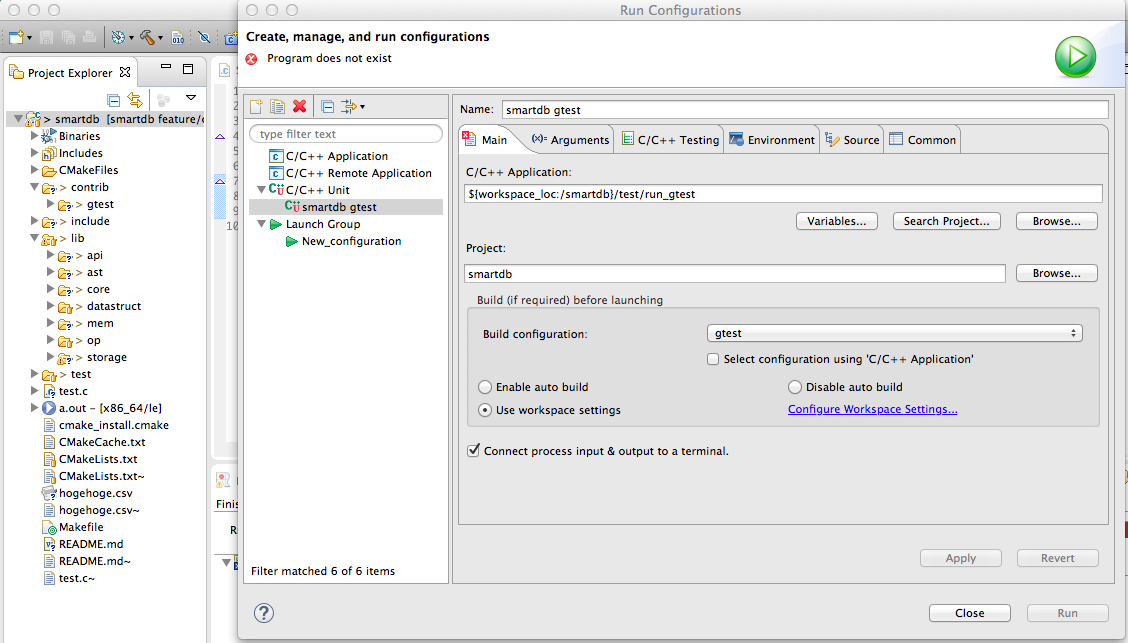
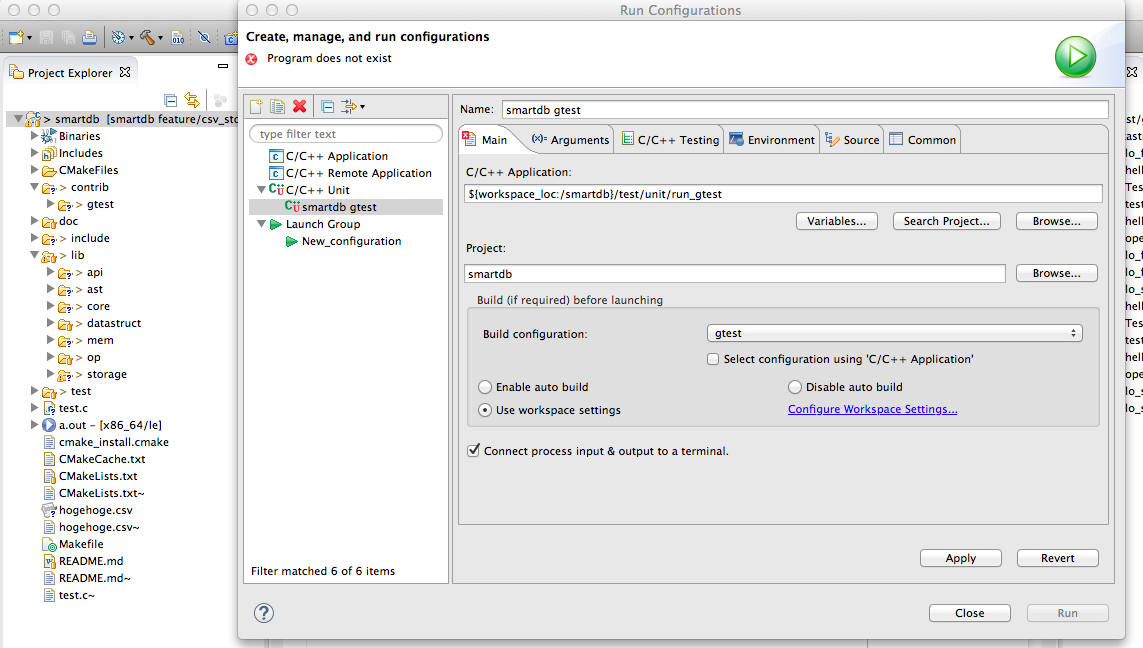
moves unit test builder

Changed region(s): [[0.0, 0.0, 1.0, 1.0], [0.5275, 0.0, 0.6516, 0.0311]]

diff --git a/README.md b/README.md
@@ -16,7 +16,7 @@ CMakeLists.txt LICENSE        Makefile.in    aclocal.m4     cmake          confi
 ### Running via shell
 
 ```bash
-$ cd test
+$ cd test/unit
 $ ./build.sh
 $ ./run_gtest
 ```
@@ -30,20 +30,20 @@ $ ./run_gtest
     4. Install it.
 
     ![Get "C/C++ Unit Test" plugin](doc/img/eclipse/installing_unit_test_support.png)
-2. Make build configuration to create `test/run_gtest` binary.
+2. Make build configuration to create `test/unit/run_gtest` binary.
     1. Project -> Properties -> C/C++ Build -> Manage Configurations ...
     2. Create a configuration named "gtest".
     3. Return to "C/C++ Build" dialogue.
-    4. Build command: `${workspace_loc:/smartdb}/test/build.sh`, build directory: `${workspace_loc:/smartdb}/test/`.
+    4. Build command: `${workspace_loc:/smartdb}/test/unit/build.sh`, build directory: `${workspace_loc:/smartdb}/test/unit/`.
 
-    ![Make build configuration to create `test/run_gtest` binary](doc/img/eclipse/gtest_build_config.png)
-3. Create configuration to build & run `test/run_gtest` binary.
+    ![Make build configuration to create `test/unit/run_gtest` binary](doc/img/eclipse/gtest_build_config.png)
+3. Create configuration to build & run `test/unit/run_gtest` binary.
     1. Run -> Run Configurations -> C/C++ Unit.
-    2. C/C++ Application: `${workspace_loc:/smartdb}/test/run_test`.
+    2. C/C++ Application: `${workspace_loc:/smartdb}/test/unit/run_test`.
     3. Build configuration: "gtest".
     4. Apply.
 
-    ![Create configuration to build & run `test/run_gtest` binary](doc/img/eclipse/gtest_run_config.png)
+    ![Create configuration to build & run `test/unit/run_gtest` binary](doc/img/eclipse/gtest_run_config.png)
 4. Run unit test.
     1. Open "C/C++ Unit" view.
     2. Click "Rerun All Tests" button.
